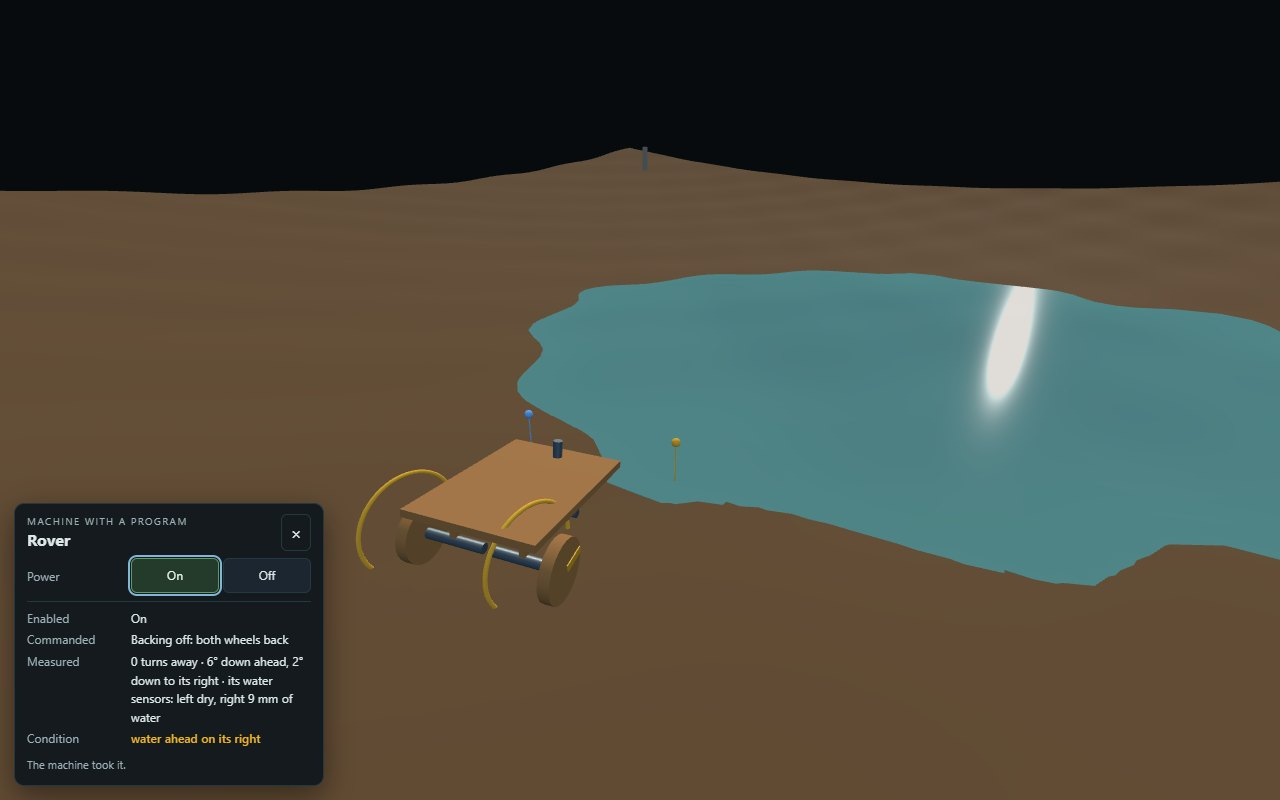
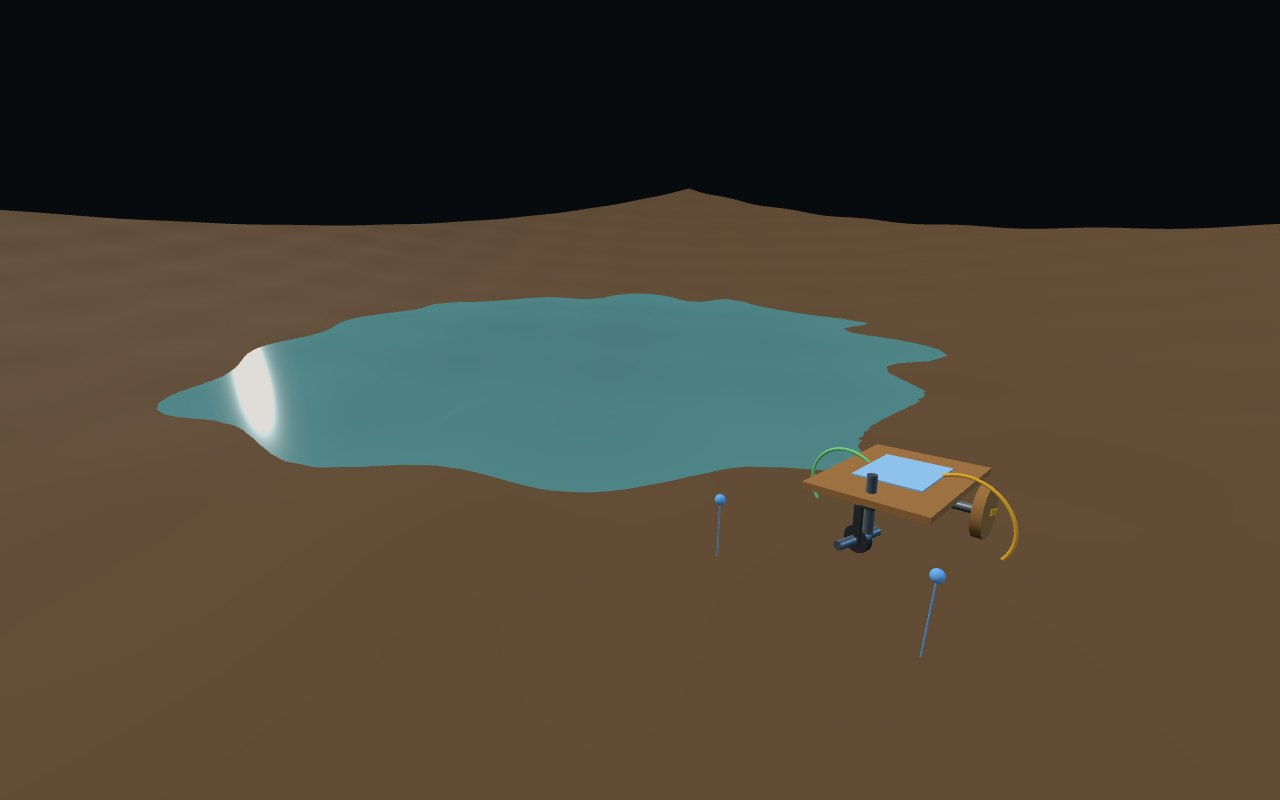
The README's machine pictures show what changed, and its stale claims are fixed
Pictures. Every pair of today's machine work is now one camera held still, so
the only difference in the frame is what the physics did: the cart beside a
fixed post and then at the water; the rover with a bead amber over the water
and then swung away with both beads dry; the tests-day room in the afternoon
and at night with the rover switched off and nothing moved; the oak plank on
its piers and then in pieces, held at the instant the room reported the break.

No machine panels in the world shots. They were mostly buttons, and the line
that mattered is quoted in the caption instead -- including the room's own
sentence about what the break cost.

One readout is shown on its own, because the joules cannot be seen in the
world: the Machines list while the rover rests in the sun, which is the whole
account in seven lines. Its rows had no styling at all, so the name and the
reading ran together ("rover battery1.38 kJ of 5.00 kJ"); two lines of CSS
separate them.

Stale claims, found by auditing every number, link and table against the repo:

- The at-a-glance Breaking row said failure laws were built but not in the
  world. A room picks its law now, and every break says what it cost.
- Room counts: seventeen more rooms became nineteen, and "2 of 19" became
  "2 of 21" (world_room.SCENES holds 21).
- The cell-size table was missing five rooms: tests-break at 20 mm, and
  tests-cart, tests-rover, tests-solar and tests-day at 50 mm.
[…]

diff --git a/playground/world.css b/playground/world.css
@@ -330,6 +330,11 @@ kbd {
                 letter-spacing: var(--label-track); text-transform: uppercase; color: var(--dim); }
 #water p { margin: 2px 0; font-variant-numeric: tabular-nums; }
 #water-cost { color: var(--dim); font-size: 11px; }
+/* The Machines list: what the machine is, then what it is doing and what it
+   has cost. The two were adjacent spans with nothing between them, so the
+   panel read "rover battery1.39 kJ of 5.00 kJ". */
+#machine-list .what { font-weight: 600; }
+#machine-list .much { margin-left: 8px; }
 #heat-list { margin: 0; padding: 0; list-style: none; }
 #heat-list li { display: flex; justify-content: space-between; gap: 14px; padding: 2px 0; }
 #heat-list .much { font-variant-numeric: tabular-nums; color: rgb(255 196 140 / .95); text-align: right; }

diff --git a/README.md b/README.md
@@ -22,10 +22,11 @@ same tools a programmer would.
 ![The main world: a generated valley with a river and a pond. A gate and a portcullis stand on the left terrace; a hearth, a battery hoist and a table stand on the right](docs/images/readme/world-valley.jpg)
 
 *The main world at `/world`. Every picture in this README is a screenshot of
-the running world, taken on 21 September 2026. What happens in them is
-simulated, not animated.*
+the running world, taken on 21 and 22 September 2026. What happens in them is
+simulated, not animated. Where there are two, they are the same camera in the
+same room, so the only difference is what the physics did.*
 
-> **Status (21 September 2026).** Banjo is early and experimental. A lot of
+> **Status (22 September 2026).** Banjo is early and experimental. A lot of
 > physics has been built and merged, but not all of it has reached the world
 > you can walk around in. [The physics](#the-physics) shows where each part
 > stands, and the [to-do list](#to-do) collects everything that remains.
@@ -133,7 +134,7 @@ build; the tables further down say which):
 
 | System | In the live world | Built, but not in the world | Not built yet |
 |---|---|---|---|
-| Breaking | impact fracture of all eight materials, pieces breaking again, denting, breaking under a steady load, foresight, cutting | other fracture solvers and failure laws; joints weaker than their material (switched off) | calibration against real materials; converged piece counts |
+| Breaking | impact fracture of all eight materials, pieces breaking again, denting, breaking under a steady load, foresight, cutting; a room chooses its failure law, and every break says what it cost against the material's own fracture energy | other fracture solvers; joints weaker than their material (switched off) | calibration against real materials; converged piece counts; a break costing what it is charged |
 | Cell sizes | one size per room: 10, 20, 40 or 50 mm; exact bodies with no cells | Workshop designs at 5-200 mm; per-object resolution in an older solver | different cell sizes in one world |
 | Materials | eight materials: brittle or dentable, friction, bounce, rolling resistance | internal damping, strength variation, wood grain, full plasticity | grain in the world, rate effects |
 | Heat and fire | heating, conduction, radiation, burning wood, heat weakening and charring, burning away, gas pistons, ice melting into the room's water | freezing, which lives only in a separate thermal simulation | freezing in the world, fires going out, thermal expansion, smoke |
@@ -146,7 +147,7 @@ The main world is the room at `/world` ("The world"). It stands on a generated
 valley with a river and a pond, and holds a latched gate, a portcullis on a
 winch, a self-closing door, a bell on a rope, a crate, a ceramic pot, a plank, a
 rubber ball, a bow, an iron sword, a pick, a hearth with an iron pot and two
-burning logs, a table and chair, and a battery hoist. Seventeen more rooms exist
+burning logs, a table and chair, and a battery hoist. Nineteen more rooms exist
 but the room menu shows only "The world" and "Expedition"; the rest open by
 address ([the rooms](#the-rooms)). `/explore`, the newest interface, can pick
 things up, carry, place and bag them and use them for what they are for (push
@@ -189,6 +190,20 @@ that stayed connected.*
 | Implicit Newton, modal-basis, quasi-static and GPU (CUDA) fracture solvers | Code only | command-line tools; the GPU backend needs `-DBANJO_BUILD_CUDA=ON` |
 | The older "network" solver, cohesive interfaces, tetrahedral contact, continuum and J2 plasticity references | Code only | tests and probes; the lab panels that ran some of them no longer have a way in |
 
+| An oak plank on two piers | The moment it broke |
+|---|---|
+| ![An oak plank bridged between two iron piers on the floor of an empty room](docs/images/readme/break-cost-before.jpg) | ![The same view: the plank is in several pieces with the iron ball resting among them between the piers](docs/images/readme/break-cost-after.jpg) |
+
+*What a break costs (`/world?scene=tests-break`): a 200 mm iron ball is dropped
+a metre and a half onto the middle of the plank. The picture on the right is
+held at the instant the room reported the break, before the pieces fell and
+broke again. The room's own account of it:*
+
+> ball hit plank at 5.2 m/s (it bends above 8.3 m/s, breaks above 2.7 m/s). It
+> broke into 7 pieces. It cost 4.47 J over 152 cm² of new crack: 294 J/m²,
+> where oak itself takes 1,000 J/m² and this room charges 1,000
+> (energy-scaled).
+
 **What a break costs** ([what-a-break-costs.md](docs/what-a-break-costs.md)):
 every break now says what it took -- the bonds the lattice removed, the crack
 they stand for, the energy that left with them -- against what the material
@@ -213,9 +228,9 @@ Every world has exactly one cell size. The rooms use different ones:
 | Cell size | Rooms |
 |---|---|
 | 10 mm | armoury |
-| 20 mm | bench |
+| 20 mm | bench, tests-break |
 | 40 mm | world, expedition, explore, valley, watershed, clearing, yard, courtyard, fabrication, tests-gates, tests-ropes, tests-motion, tests-carry |
-| 50 mm | tests-machines |
+| 50 mm | tests-machines, tests-cart, tests-rover, tests-solar, tests-day |
 
 The cell size shows in the pieces: the pane above broke into 40 mm cubes, and
 the bench plates under [Materials](#materials) into 20 mm ones.
@@ -471,35 +486,39 @@ which 380 J became work and 601 J heat, and the rope now carries 316 N.*
 rolls: when the cart was added, a push moved it 0.404 m while its wheels turned
 145 degrees, which is 0.405 m of rim, so it rolls rather than slides.*
 
-| Before | After |
+| Turned on, at the top of the shore | Six metres later, at the water |
 |---|---|
-| ![The self-driving cart at the top of a lake's shore, facing the water, with its sensor's blue bead on a thread in front of it](docs/images/readme/self-driving-cart-before.jpg) | ![The cart stopped at the water's edge with its sensor's bead amber over the water, and its panel saying "water ahead: it stopped at the water's edge"](docs/images/readme/self-driving-cart-after.jpg) |
+| ![The lake on the left, a concrete post in the middle of the shore, and the cart standing on the right with its sensor's blue bead on a thread in front of it](docs/images/readme/self-driving-cart-before.jpg) | ![The same view: the cart has driven past the post and stopped with its front wheels at the water's edge](docs/images/readme/self-driving-cart-after.jpg) |
 
 *A cart that drives itself (`/world?scene=tests-cart`): the same cart, with a
 24 V battery in its chassis, a motor with a brake on its back wheels, and a
 controller whose water sensor looks at the ground 0.6 m in front of the deck.
 E on the cart opens its panel, and **On** then **Forward** send it down the
-shore. The sensor is the bead on a thread; it turns amber when the water under
-it is more than 10 mm deep, and the controller brakes. In the engine it went
-6.0 m in 5.2 s and stopped with its front wheels 0.13 m short of the water.
-Going downhill the motor mostly held it back: the battery gave 26 J, the
-motor's work was -83 J, and 110 J became heat.*
+shore. Both pictures are from the same place, with the concrete post as a fixed
+mark: between them the cart drove itself down the shore and stopped. The sensor
+is the bead on the thread; it turns amber when the water under it is more than
+10 mm deep, and the controller brakes. In the engine it went 6.0 m in 5.2 s and
+stopped with its front wheels 0.13 m short of the water. Going downhill the
+motor mostly held it back: the battery gave 26 J, the motor's work was -83 J,
+and 110 J became heat.*
 
-| Turned on | A while later |
+| A sensor finds the water | Seconds later, turned away |
 |---|---|
-| ![The rover on the lake's shore: a deck on two big back wheels and a small caster wheel in front, its two sensors' beads ahead of it, and its program's panel turned on](docs/images/readme/rover-before.jpg) | ![The rover further round the shore, turning away from the water, its panel saying what it is doing and why](docs/images/readme/rover-after.jpg) |
+| ![The rover driving at the lake, a green arc on the wheel that is turning forward; of the two beads on threads ahead of it, the one over the water is amber and the one over dry ground is blue](docs/images/readme/rover-before.jpg) | ![The same view: the rover has swung round to face along the shore, one wheel driving forward and the other backing, and both beads are blue over dry ground](docs/images/readme/rover-after.jpg) |
 
 *A rover that roams by itself (`/world?scene=tests-rover`): a motor on each
 back wheel, so it steers by driving them differently, and a caster in front
 that swings round to follow. Its **program** works the two wheels' controllers
-as a person works their panels. It goes forward; where one of its two front
-sensors sees water it backs off and turns away from that side; where the
-ground is steeper than 8 degrees it turns downhill. Nothing tells it where
-the lake is. E on it opens the program's panel, whose only buttons are **On**
-and **Off**. In the engine it roamed 50 m of shore in a minute, turned away 5
-times, and never had a wheel in the water.*
+as a person works their panels. The two pictures are the same camera a few
+seconds apart: on the left the bead over the water has turned amber while its
+wheels are still driving forward; on the right it has backed off and turned
+away from the side that saw water -- one wheel forward, one back -- and both
+beads are over dry ground again. Nothing tells it where the lake is. It also
+turns downhill where the ground is steeper than 8 degrees. In the engine it
+roamed 50 m of shore in a minute, turned away 5 times, and never had a wheel
+in the water.*
 
-![The rover resting on the shore, a glass solar panel on its deck, its panel saying its battery is low so it rests while its panel charges it](docs/images/readme/solar-resting.jpg)
+![The rover standing still on the shore with the pale glass solar panel on its deck and both sensor beads blue over dry ground](docs/images/readme/solar-resting.jpg)
 
 *Solar panels (`/world?scene=tests-solar`): the owner chose them to charge a
 machine's batteries. The room declares a sun, 50 degrees up at 1000 W/m2. The
@@ -507,23 +526,35 @@ glass panel on the rover's deck puts into its battery the sunlight on its face
 (irradiance, times area, times the cosine of the angle to the sun) times its
 efficiency, and nothing in shade. Roaming draws more than the panel gives, so
 when the battery is down to a quarter the rover stops where it is and rests
-until the sun has charged it to three fifths, then roams on. In the engine the
-panel gave 29.8 W of 148.8 W of sunlight, and what the battery held was exactly
-what it began with, plus what it took in, less what it gave.*
+until the sun has charged it to three fifths, then roams on. The rover above is
+resting: standing still is all there is to see of it.*
 
-| At sunset | At night |
+![The Machines list while it rests: the rover battery at 1.38 kJ of 5.00 kJ (28%), having given 399 J and taken in 382 J; each wheel's controller stopped and holding on its brake; the program resting because its battery is low while its panel charges it; the solar panel on the rover giving 29 W from 147 W of sun on it, having given 382 J; and each motor's draw, work and heat](docs/images/readme/solar-machines.jpg)
+
+*The joules are the one thing the room cannot show you, so here is the Room
+tab's Machines list at that moment. It is worth a look because it is the whole
+account in seven lines: the panel turning 29 W out of the 147 W of sunlight on
+it, the battery holding 28% and having taken in 382 J of it, and each motor's
+draw split into work and heat. What the battery holds is always what it began
+with, plus what it took in, less what it gave.*
+
+| Four in the afternoon | Ten to seven, after sunset |
 |---|---|
-| ![The rover roaming the shore under a red evening sky, the low sun glinting on the lake, its panel saying it is going forward with nothing in its way](docs/images/readme/day-sunset.jpg) | ![The rover resting on the dark shore under a black sky, its panel saying its battery is low and the sun is down, so it rests until morning](docs/images/readme/day-night.jpg) |
+| ![The lake and the rover on its shore under a blue sky, the ground and the rover's deck lit, the sun glinting off the water](docs/images/readme/day-afternoon.jpg) | ![The same view with nothing moved: the sky is black, the ground is dim and the rover is barely lit](docs/images/readme/day-night.jpg) |
 
 *A day for the sun (`/world?scene=tests-day`): the room's sun goes round in
 four minutes, rising in the east, highest in the south at noon and setting in
-the west, and the room begins at four in the afternoon. Low in the sky less of
-its light gets through the air, and at night none. The page is lit from where
-the sun is, and the Room tab's clock says the hour. The rover roams on into
-the dark on what its battery holds. When the battery is down to a quarter it
-rests until morning, taking in nothing all night. In the engine the sun set
-20 s in, the rover rested at 20:34, and it woke at 11:00, once the morning sun
-had charged it to two fifths.*
+the west, and the room begins at four in the afternoon. Nothing in the room
+moved between these two pictures -- the rover is switched off and standing
+where it was, and the camera has not moved -- so the only difference is the
+light. They are 28 seconds of the room's time apart, which is nearly three
+hours of its day. Low in the sky less of the sun's light gets through the air;
+below the horizon none does, and the sun's lamp goes out. The Room tab's clock
+says the hour: "16:08, the sun 24° up", then "18:56, night". Turned on, the
+rover roams into the dark on what its battery holds; when the battery is down
+to a quarter it rests until morning, taking in nothing all night. In the
+engine the sun set 20 s in, the rover rested at 20:34, and it woke at 11:00,
+once the morning sun had charged it to two fifths.*
 
 | Capability | Status | How to try it |
 |---|---|---|
@@ -867,7 +898,7 @@ stands at 1 complete, 26 partial and 3 planned.
   machine, and it does not animate the water. It rebuilds its valley on every
   load, so nothing done there is kept.
 - [ ] **Put the test rooms' physics in the main world, or on the menu.** The
-  menu shows 2 of 19 rooms. Breaking under load, the gas piston, fine cells for
+  menu shows 2 of 21 rooms. Breaking under load, the gas piston, fine cells for
   cutting, the plates of every material and the watershed can only be reached
   by typing an address.
 - [ ] **Freezing in the world.** Ice melts in the world now; water does not
@@ -879,10 +910,12 @@ stands at 1 complete, 26 partial and 3 planned.
 - [ ] **Different cell sizes in one world.** The scene format, scene builder and
   renderer all assume one size. Needed for Workshop detail, thin parts and
   imported models.
-- [ ] **Choose the fracture solver and failure law**, then integrate or archive
-  the rest: the energy-scaled law, algorithm 3, the implicit, modal,
-  quasi-static and GPU solvers, the network solver, the cohesive, tetrahedral
-  and continuum references. Bring the GPU backend to the world if it is kept.
+- [ ] **Choose the fracture solver**, then integrate or archive the rest:
+  algorithm 3, the implicit, modal, quasi-static and GPU solvers, the network
+  solver, the cohesive, tetrahedral and continuum references. Bring the GPU
+  backend to the world if it is kept. The failure law is settled: a room picks
+  one, and the energy-scaled law charges a crack the material's own fracture
+  energy ([what-a-break-costs.md](docs/what-a-break-costs.md)).
 - [ ] **Turn on the material properties that are switched off:** internal
   damping and strength variation. Give oak its grain in the world's lattice.
 - [ ] **Joint strengths.** The mechanism for a joint weaker than its material is
@@ -959,13 +992,15 @@ stands at 1 complete, 26 partial and 3 planned.
   (MIT), raylib (zlib) and three.js (MIT), plus `CONTRIBUTING.md` and
   `SECURITY.md`. The repository is public, and without a licence nobody may
   legally use it.
-- [ ] **A green nightly run.** CI on `main` passed again on 21 September
-  (cee3b8d), after failing or being cancelled on every run since 19 September.
-  The nightly long-physics job has failed every night since 14 September.
+- [ ] **A green nightly run.** CI on `main` is green at the newest commit
+  (22 September). Of the eight runs since 19 September, seven passed and one
+  failed -- a browser journey that judged a machine stopped by the wall clock
+  rather than the room's, fixed the same day. The nightly long-physics job has
+  failed every night since 14 September.
 - [ ] **A first build that works.** Make every script default to one build
   folder per platform (fifteen files point at `build/win-joint-double`), and
   make the desktop lab optional so a headless Linux configure works.
-- [ ] **Docs that are current.** `docs/` has 201 files; 123 are dated
+- [ ] **Docs that are current.** `docs/` has 202 files; 123 are dated
   checkpoint notes and 139 were last changed between 4 and 8 September. Several
   contradict the code (for example, `docs/building-on-banjo.md` says there are
   no joints and no saving). Move the history out of the way, keep a few current
@@ -990,9 +1025,10 @@ stands at 1 complete, 26 partial and 3 planned.
   unexpected errors close the connection without a reply; a chat turn holds the
   world for up to 420 s; logs and run folders are never cleaned up.
 - [ ] **A real host.** The hosted copy on Render is on the free plan (0.1 CPU,
-  512 MB, no disk): each deploy or idle spin-down deletes the rooms, and it runs
-  a build from 18 September. [docs/deploy.md](docs/deploy.md) sizes a real host
-  at 8 cores, 16 GB and a 10 GB volume.
+  512 MB, no disk): each deploy or idle spin-down deletes the rooms, and the
+  copy running there was deployed on 18 September, well behind `main`.
+  [docs/deploy.md](docs/deploy.md) sizes a real host at 8 cores, 16 GB and a
+  10 GB volume.
 
 ### Decisions for the owner
 
@@ -1025,11 +1061,12 @@ right. Start with these:
 | Cutting and handling | [cutting-model.md](docs/cutting-model.md), [interaction-profiles.md](docs/interaction-profiles.md), [placement-and-interaction-points.md](docs/placement-and-interaction-points.md) |
 | The Workshop and products | [workshop-mode.md](docs/workshop-mode.md), [product-framework.md](docs/product-framework.md) |
 | Building from language | [building-from-language.md](docs/building-from-language.md) |
+| Breaking: what it costs, and what is not calibrated | [what-a-break-costs.md](docs/what-a-break-costs.md), [criterion-energy-scaled-checkpoint.md](docs/criterion-energy-scaled-checkpoint.md), [glass-drop-benchmark.md](docs/glass-drop-benchmark.md) |
 | Every mechanic and its evidence | [mechanics-scorecard.md](docs/mechanics-scorecard.md) |
 | The pages and HTTP routes | [playground/README.md](playground/README.md) |
 | Hosting | [deploy.md](docs/deploy.md) |
 | The long-term plan | [project-master-plan.md](docs/project-master-plan.md), [roadmap.md](docs/roadmap.md) |
-| What is not done | [what-is-not-done.md](docs/what-is-not-done.md) |
+| What is not done, as it stood on 16 September | [what-is-not-done.md](docs/what-is-not-done.md) |
 
 ## Repository layout
 
